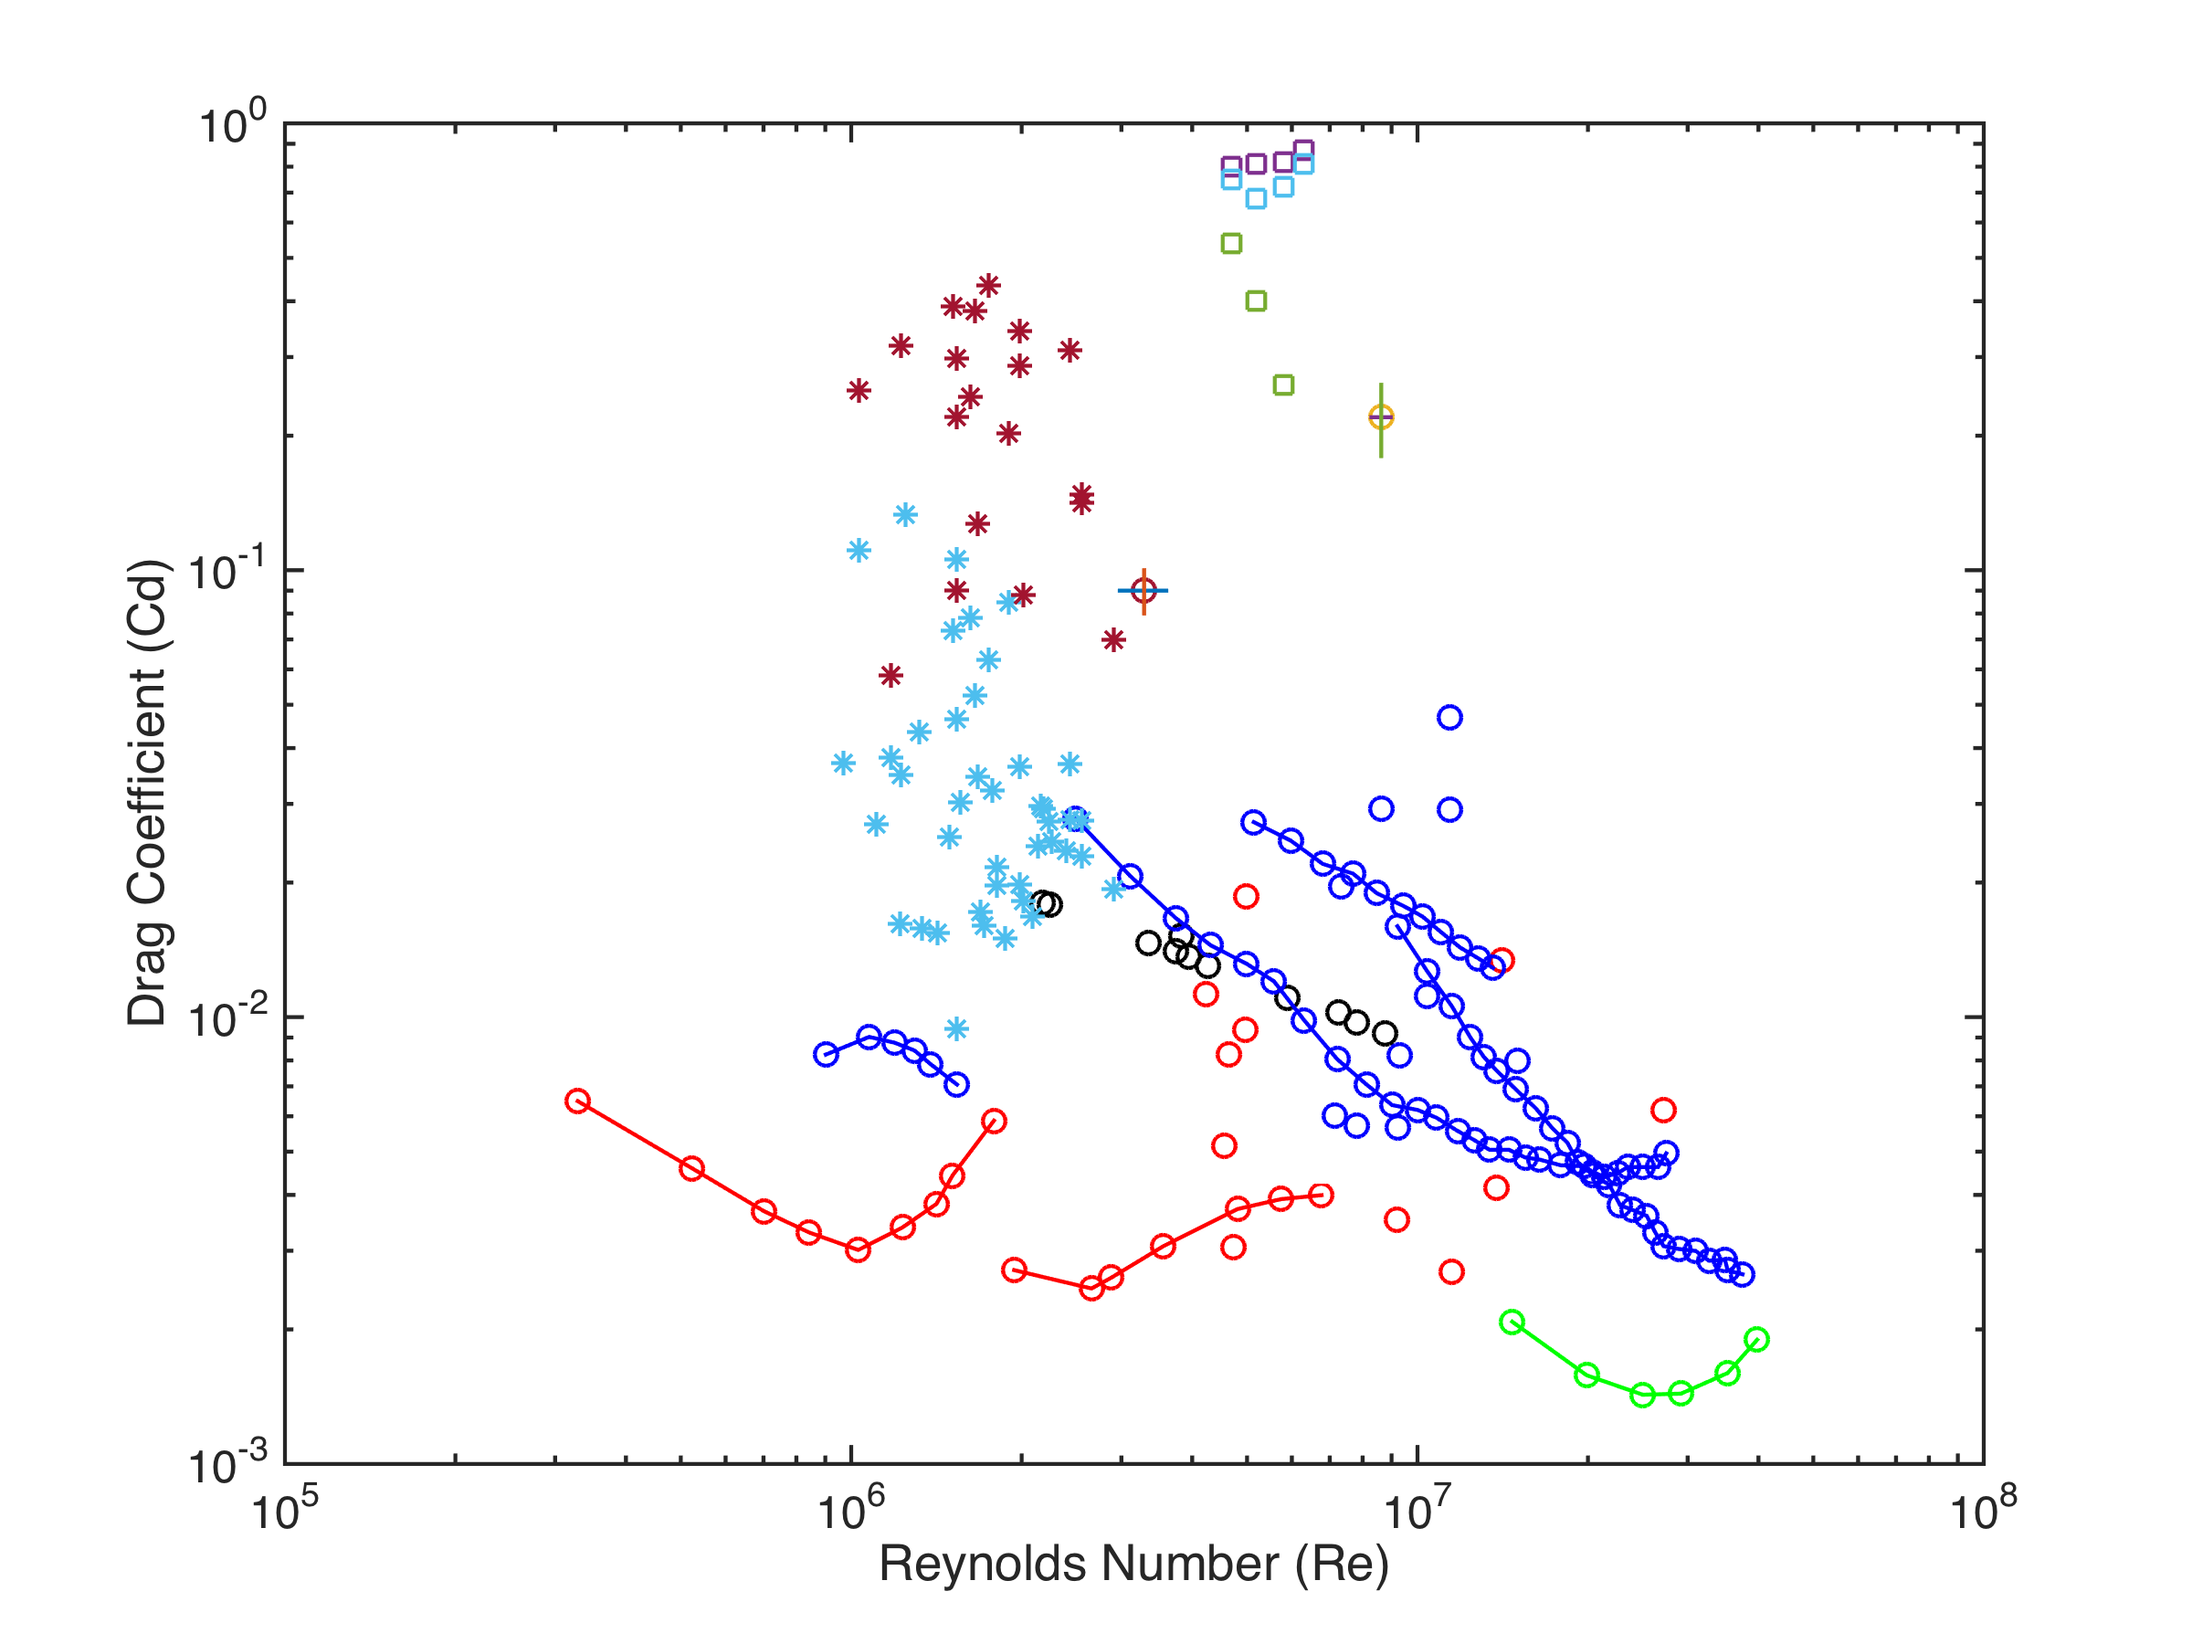
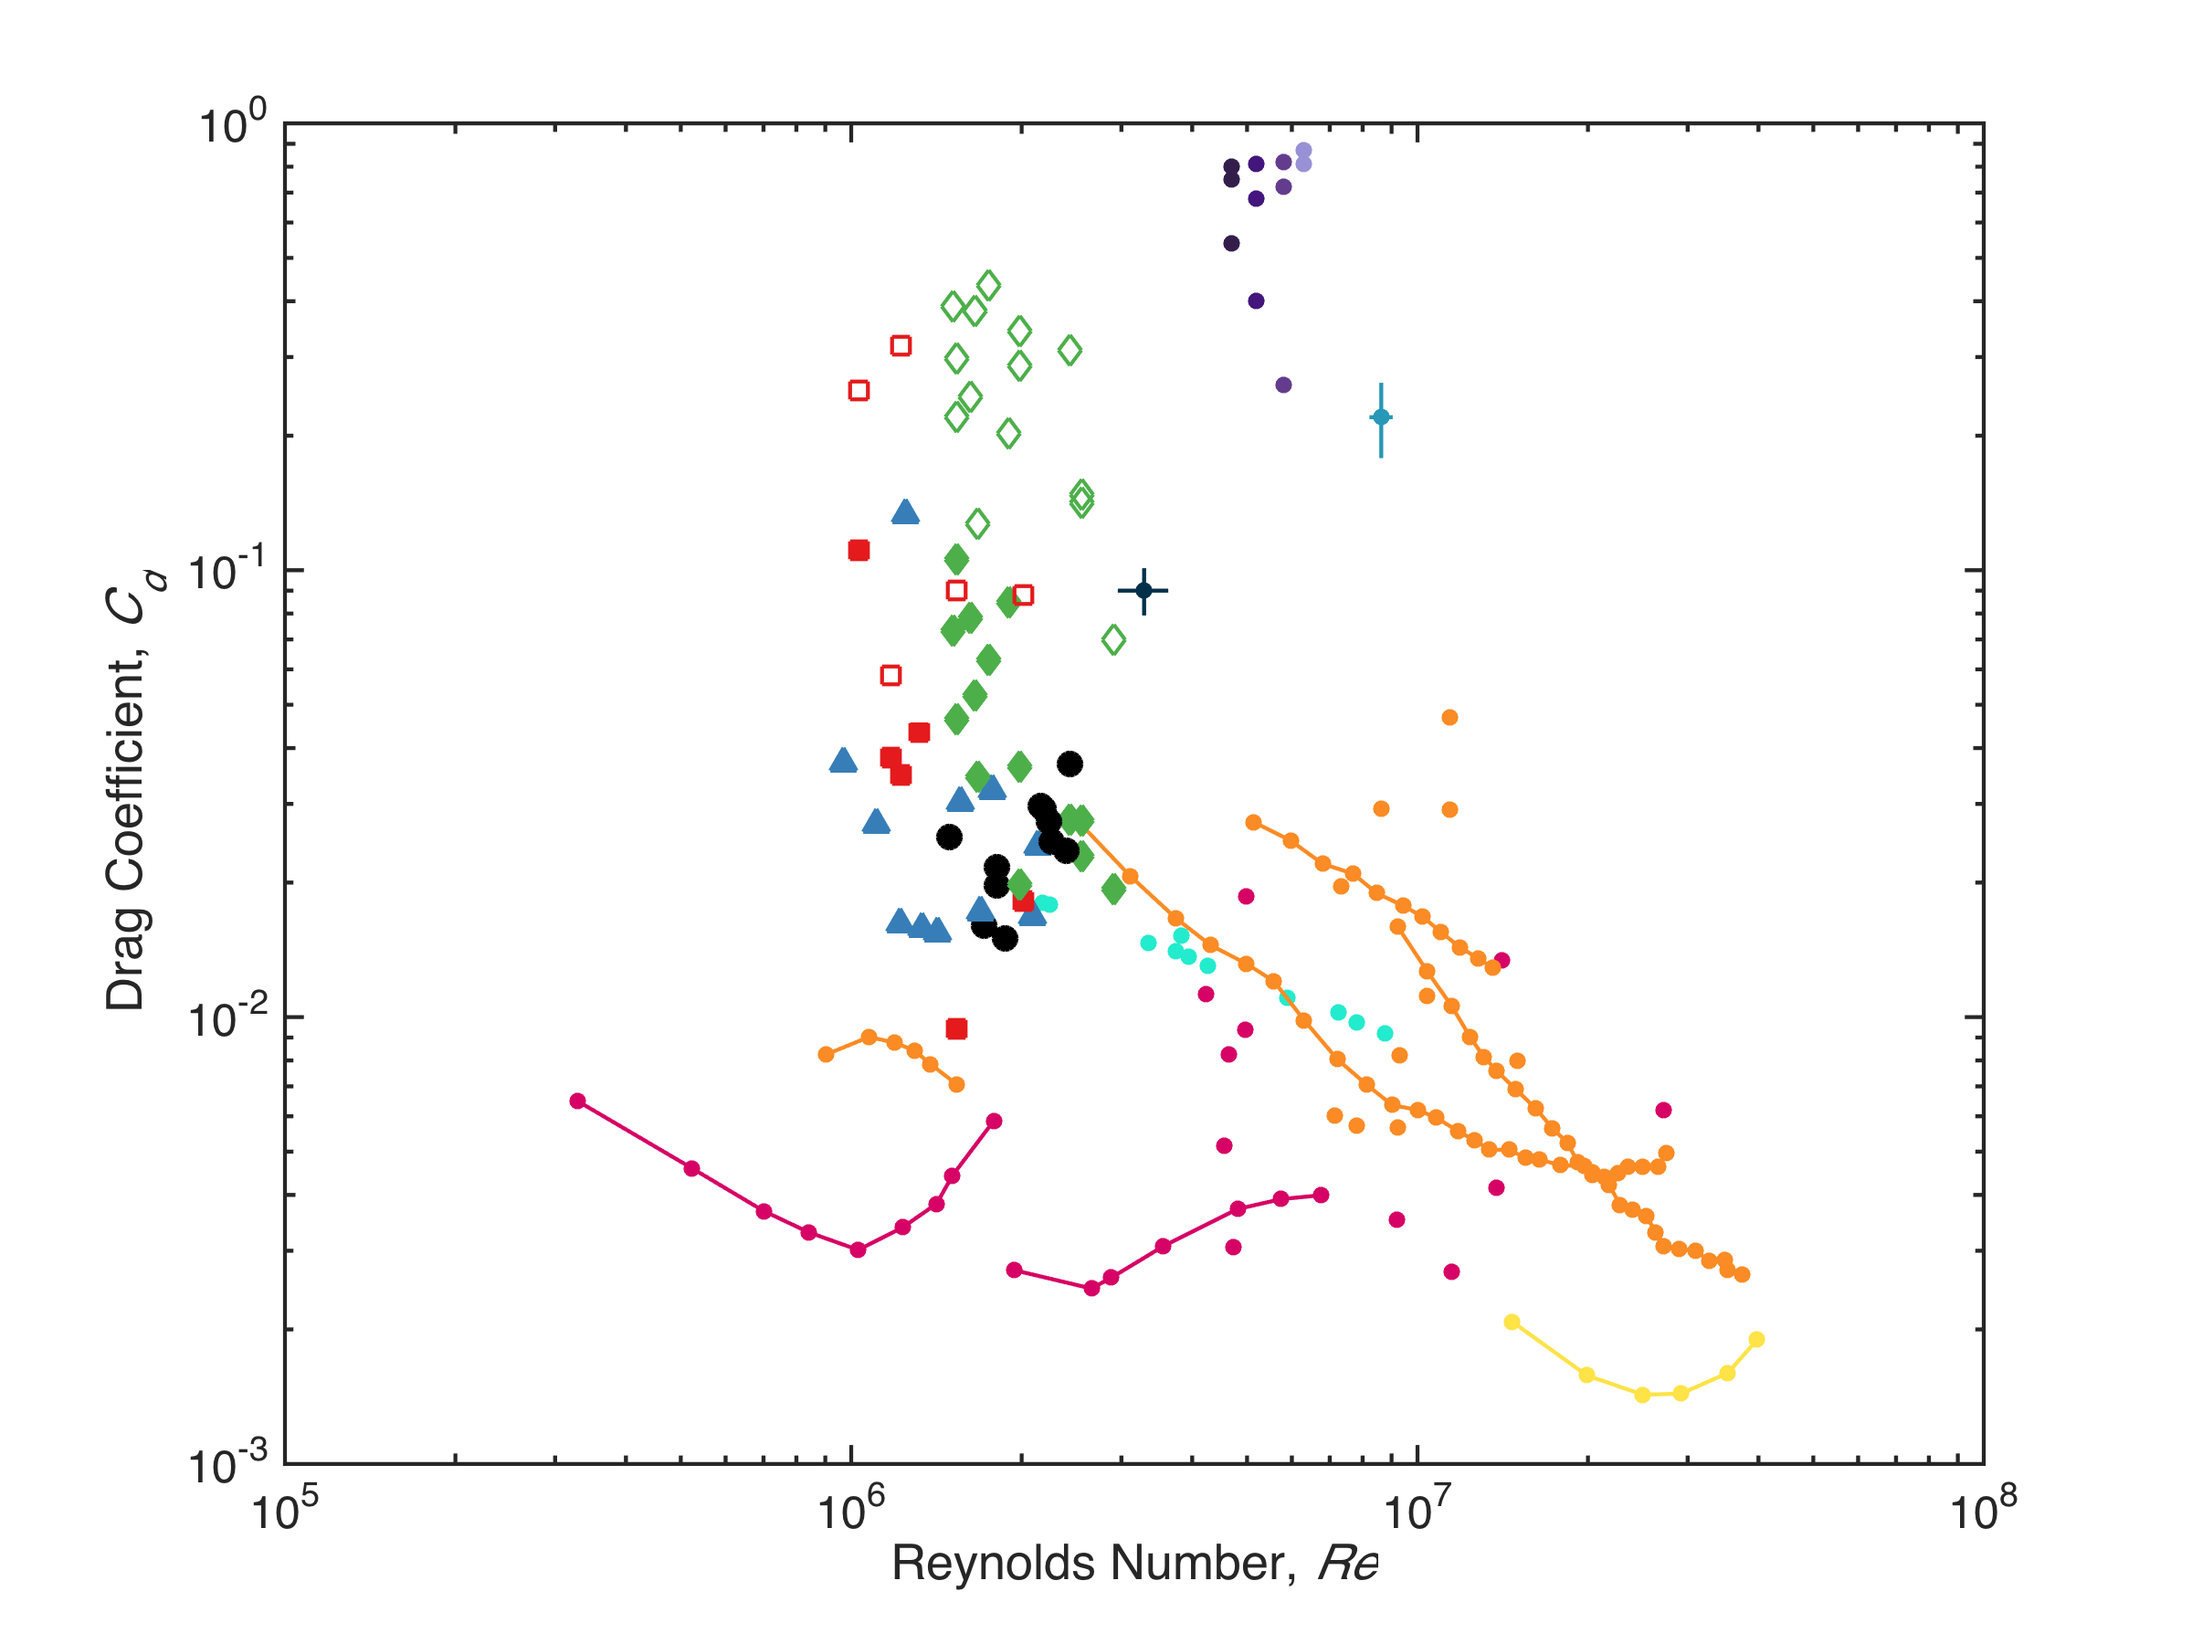
Plot improvements

diff --git a/Glides/GlideDataPlots.m b/Glides/GlideDataPlots.m
@@ -5,7 +5,7 @@ load('Data_Readmatv6')
 % plot Cd vs. Re from Video Only glide data
 figure(1); clf; hold on
 set(gcf,'position',[1417 276 933 384])
-subplot('position',[0.08 0.1 0.4 0.8]); 
+subplot('position',[0.1 0.1 0.38 0.8]); 
 for i = 1:length(mav)
     h1 = loglog(Re(i),mav(i,5),'o'); hold on
     if mav(i,1) == 0
@@ -37,10 +37,11 @@ for i = 1:length(mav)
     end
 end
 
-xlabel('Reynolds Number (Re)'); ylabel('Drag Coefficient (C_d)')
+xlabel('Reynolds Number, \it{Re}'); ylabel('Drag Coefficient, \it{C_d}')
 xlim([8E5 4E6]); ylim([7E-3 1E0])
+text(8.4E5,0.75,'A','FontSize',18,'FontWeight','bold')
 %% plot agreement between glide vs. tag method
-subplot('position',[0.55 0.1 0.4 0.8]); hold on
+subplot('position',[0.6 0.1 0.38 0.8]); hold on
 for i = 1:length(mav)
     h3 = scatter(nanmean([Cdtag1(i) Cdtag2(i)]),mav(i,5),'o');
     if mav(i,1) == 0
@@ -58,6 +59,7 @@ plot([0 0.12],[0 0.12],'k')
 xlabel('Tag-derived Drag Coefficient'); ylabel('Video Only-derived Drag Coefficient')
 adjustfigurefont
 box on
+text(0.0141,0.1135,'B','FontSize',18,'FontWeight','bold')
 cd /Users/julievanderhoop/Documents/MATLAB/DQ/DQ2013/AnalysisFigs
 print('VideoTag_Cd','-dpng','-r300')
 
@@ -70,32 +72,60 @@ nanmean(nanstd([Cdtag1(mav(:,1) == 5) Cdtag2(mav(:,1) == 5)]));
 
 %% DATA FROM FISH (TEST)
 figure(3); clf
-loglog(Fish(:,1),Fish(:,2),'o-','color','r'); hold on
-loglog(Fish(:,3),Fish(:,4),'o-','color','r')
-loglog(Fish(:,5),Fish(:,6),'o','color','r')
-loglog(Fish(:,7),Fish(:,8),'o-','color','g')
-loglog(Fish(:,9),Fish(:,10),'o','color','k')
-loglog(Fish(:,11),Fish(:,12),'o-','color','b')
-loglog(Fish(:,13),Fish(:,14),'o-','color','b')
-loglog(Fish(:,15),Fish(:,16),'o-','color','b')
-loglog(Fish(:,17),Fish(:,18),'o-','color','b')
-loglog(Fish(:,19),Fish(:,20),'o','color','b')
+loglog(Fish(:,1),Fish(:,2),'.-','color',[214/255 2/255 101/255],'markersize',15); hold on
+loglog(Fish(:,3),Fish(:,4),'.-','color',[214/255 2/255 101/255],'markersize',15)
+loglog(Fish(:,5),Fish(:,6),'.','color',[214/255 2/255 101/255],'markersize',15)
+loglog(Fish(:,9),Fish(:,10),'.','color',[35/255 235/255 205/255],'markersize',15) 
+loglog(Fish(:,7),Fish(:,8),'.-','color',[255/255 227/255 71/255],'markersize',15)
+loglog(Fish(:,11),Fish(:,12),'.-','color',[251/255 139/255 36/255],'markersize',15)
+loglog(Fish(:,13),Fish(:,14),'.-','color',[251/255 139/255 36/255],'markersize',15)
+loglog(Fish(:,15),Fish(:,16),'.-','color',[251/255 139/255 36/255],'markersize',15)
+loglog(Fish(:,17),Fish(:,18),'.-','color',[251/255 139/255 36/255],'markersize',15)
+loglog(Fish(:,19),Fish(:,20),'.','color',[251/255 139/255 36/255],'markersize',15)
 % Lang Daybell Drag Collar work
-loglog(LangDaybell(:,2),LangDaybell(:,3),'s')
-loglog(LangDaybell(:,2),LangDaybell(:,4),'s')
-loglog(LangDaybell(:,2),LangDaybell(:,5),'s')
+% colours are increasing drag
+loglog(repmat(LangDaybell(1,2),3,1),LangDaybell(1,3:5),'.','markersize',15,'color',[152/255 145/255 214/255])
+loglog(repmat(LangDaybell(2,2),3,1),LangDaybell(2,3:5),'.','markersize',15,'color',[100/255 60/255 142/255])
+loglog(repmat(LangDaybell(3,2),3,1),LangDaybell(3,3:5),'.','markersize',15,'color',[66/255 22/255 124/255])
+loglog(repmat(LangDaybell(4,2),3,1),LangDaybell(4,3:5),'.','markersize',15,'color',[51/255 30/255 75/255])
 % Noren Pregnancy 2011
-loglog(Noren2011(1,1),Noren2011(1,2),'o') % 18 months post parturition
-loglog(Noren2011(2:3,1),[Noren2011(1,2) Noren2011(1,2)])
-loglog([Noren2011(1,1) Noren2011(1,1)],Noren2011(2:3,2))
-loglog(Noren2011(1,3),Noren2011(1,4),'o') % pregnant
-loglog(Noren2011(2:3,3),[Noren2011(1,4) Noren2011(1,4)])
-loglog([Noren2011(1,3) Noren2011(1,3)],Noren2011(2:3,4))
+loglog(Noren2011(1,1),Noren2011(1,2),'.','color',[0/255 48/255 73/255],'markersize',15) % 18 months post parturition
+loglog(Noren2011(2:3,1),[Noren2011(1,2) Noren2011(1,2)],'color',[0/255 48/255 73/255])
+loglog([Noren2011(1,1) Noren2011(1,1)],Noren2011(2:3,2),'color',[0/255 48/255 73/255])
+loglog(Noren2011(1,3),Noren2011(1,4),'.','color',[39/255 152/255 183/255],'markersize',15) % pregnant
+loglog(Noren2011(2:3,3),[Noren2011(1,4) Noren2011(1,4)],'color',[39/255 152/255 183/255])
+loglog([Noren2011(1,3) Noren2011(1,3)],Noren2011(2:3,4),'color',[39/255 152/255 183/255])
 
 % add our data
-loglog(Re,mav(:,5),'*');
-loglog(Re,nanmean([Cdtag1 Cdtag2]'),'*');
+% video only data
+for i = 1:length(mav)
+    h1 = loglog(Re(i),mav(i,5),'o'); hold on
+    if mav(i,1) == 0
+        set(h1,'MarkerEdgeColor','k','MarkerFaceColor','k')
+    else if mav(i,1) == 1
+            set(h1,'Marker','^','MarkerEdgeColor',[55/255 126/255 184/255],'MarkerFaceColor',[55/255 126/255 184/255])
+        else if mav(i,1) == 3
+                set(h1,'Marker','d','MarkerEdgeColor',[77/255 175/255 74/255],'MarkerFaceColor',[77/255 175/255 74/255])
+            else set(h1,'Marker','s','MarkerEdgeColor',[228/255 26/255 28/255],'MarkerFaceColor',[228/255 26/255 28/255])
+            end
+        end
+    end
+end
+% tag data
+for i = 1:length(mav)
+    h2 = plot(Re(i),nanmean([Cdtag1(i) Cdtag2(i)]),'o');
+    if mav(i,1) == 0
+        set(h2,'MarkerEdgeColor','k')
+    else if mav(i,1) == 1
+            set(h2,'Marker','^','MarkerEdgeColor',[55/255 126/255 184/255])
+        else if mav(i,1) == 3
+                set(h2,'Marker','d','MarkerEdgeColor',[77/255 175/255 74/255])
+            else set(h2,'Marker','s','MarkerEdgeColor',[228/255 26/255 28/255])
+            end
+        end
+    end
+end
 
-xlabel('Reynolds Number (Re)'); ylabel('Drag Coefficient (Cd)')
+xlabel('Reynolds Number, \it{Re}'); ylabel('Drag Coefficient, \it{C_d}')
 adjustfigurefont
 print('AllCdData','-dpng','-r300')

diff --git a/Glides/GlideCheck_2a.m b/Glides/GlideCheck_2a.m
@@ -2,7 +2,7 @@ close all; clear all; clc
 
 % Import glide .csv 
 cd /Users/julievanderhoop/Documents/NOPPTagDrag/DolphinQuest2013/Glides/CUT
-A = importdata('UWC_Liho_288_2a.csv',',',2);
+A = importdata('UWC_Liho_288_2c.csv',',',2);
 ZO1 = A.data(:,1:5);
 ZO2 = A.data(:,6:10);
 
